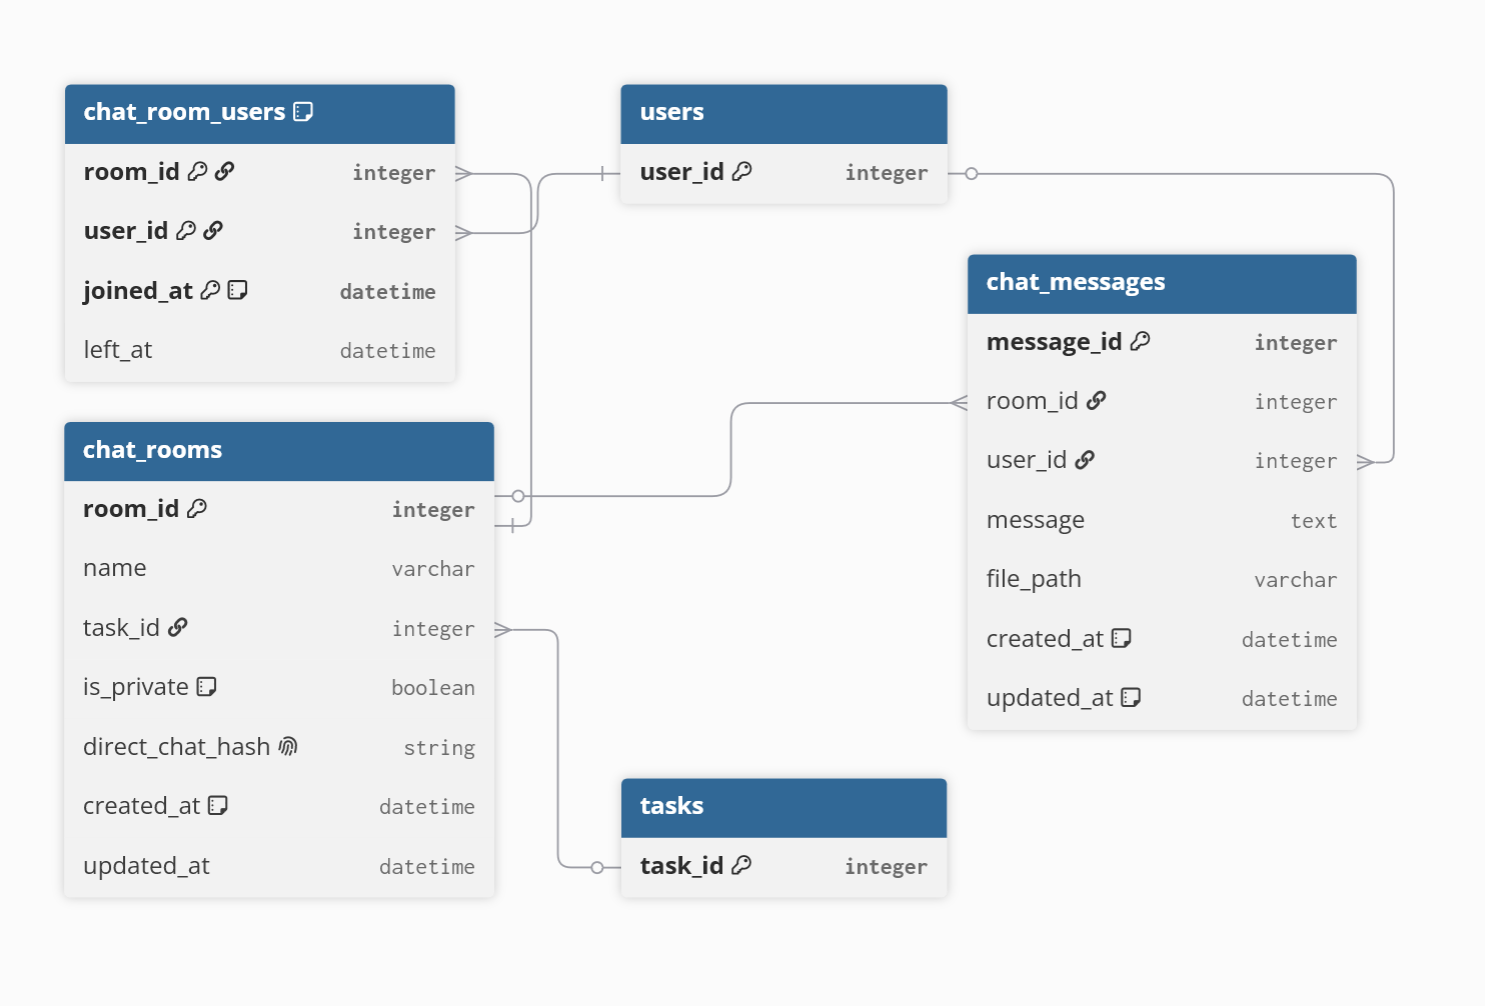
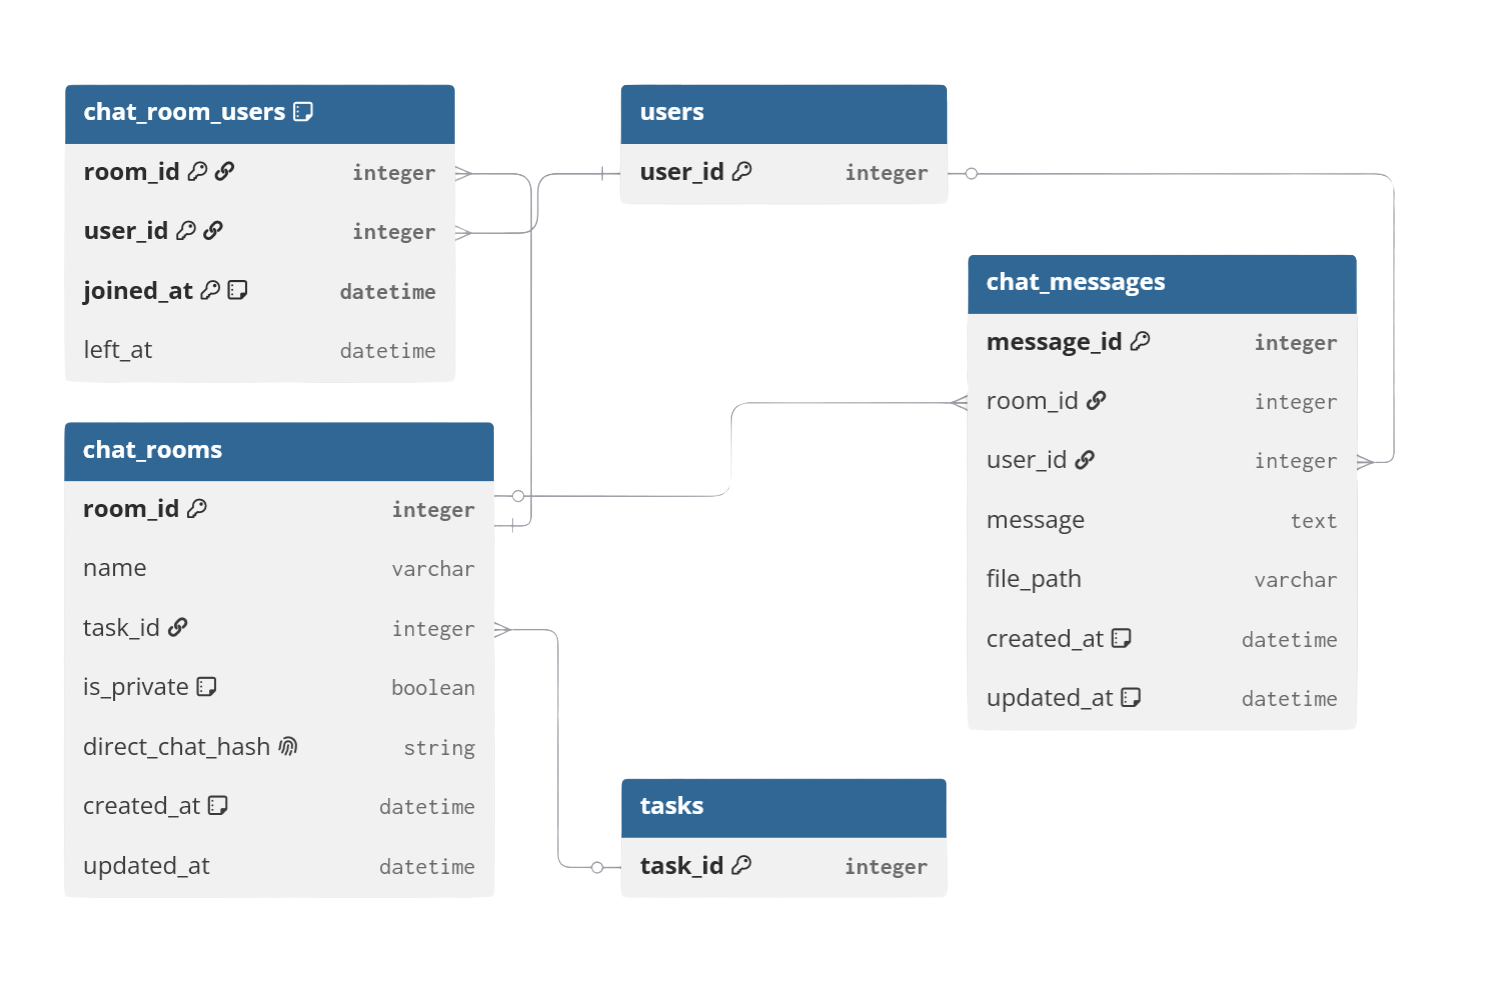
#60: taks thesis done

diff --git a/thesis/content/07_ImplementierungDerKernfunktionen.tex b/thesis/content/07_ImplementierungDerKernfunktionen.tex
@@ -13,28 +13,199 @@ Im Folgenden wird detailliert erläutert, wie zentrale Features, wie beispielswe
 \authorsection{Taskverwaltung}{Dražen Plavšić}
 \label{sec:taskverwaltung}
 
+Da EffSync als Task-Management-System konzipiert wurde, bildet das Task-Modul das zentrale Element der Anwendung. Die Zielsetzung des Systems ist es, sowohl Schülern als auch Lehrern die Verwaltung von Aufgaben zu erleichtern. Schüler erhalten die Möglichkeit, ihre Aufgaben eigenständig zu organisieren, während Lehrern ein strukturiertes Werkzeug zur Verfügung steht, um Aufgaben gezielt zuzuweisen und deren Bearbeitung zu überwachen.
+
+Das System wurde dabei bewusst über den schulischen Kontext hinaus konzipiert. Durch die Möglichkeit der beliebig tiefen Verschachtlung von Tasks und Subtasks lassen sich nicht nur einfache Aufgaben, sondern auch komplexe Projektstrukturen abbilden. Ein einzelner Task kann dabei ein übergeordnetes Projekt repräsentieren, dessen Teilaufgaben in weitere Unteraufgaben unterteilt werden. Dies macht das Task-Modul von EffSync grundsätzlich auch für den unternehmensinternen Einsatz geeignet, da sich ganze Projekte oder Teilprojekte vollständig innerhalb des Systems strukturieren lassen.
+
+\subsection{Datenbankschema und grundlegender Aufbau einer Aufgabe}
+Bevor komplexe Mechanismen wie Aufgabenhierarchien und automatische Evaluierungsregeln betrachtet werden, ist es wichtig, den grundlegenden strukturellen Aufbau eines \textit{Tasks} zu verstehen. Die Task-Entität bildet das zentrale Kernstück der Applikation und ist in der Datenbank so modelliert, dass sie alle Metadaten für das Projektmanagement effizient speichern kann.
+
+\begin{figure}[H]
+  \centering
+  \includegraphics[width=0.8\textwidth]{content/bilder/task_db_schema.png}
+  \caption{Auszug des Datenbankschemas zur Verwaltung der Tasks}
+  \label{fig:task_schema}
+\end{figure}
+
+Die Tabelle (sihe Abbildung \ref{fig:task_schema}) lässt sich logisch in drei wesentliche Datenbereiche unterteilen:
+\begin{itemize}
+    \item \textbf{Basisdaten \& Fortschritt:} Felder wie \texttt{title}, \texttt{description}, \texttt{status} und \texttt{progress} bilden die Kerninformationen für die Benutzeroberfläche. Der Status und der Fortschritt (0 bis 100\,\%) sind logisch aneinander gekoppelt.
+    \item \textbf{Verantwortlichkeiten \& Organisation:} Über \texttt{created\_by} und \texttt{assigned\_to} wird auf Datenbankebene sichergestellt, dass jede Aufgabe einem Ersteller und optional einem Bearbeiter zugewiesen ist. Das Feld \texttt{priority\_id} referenziert eine separate Tabelle, um Tasks nach Dringlichkeit (z.\,B. Niedrig, Hoch) zu kategorisieren, während \texttt{deadline} die zeitliche Frist setzt.
+    \item \textbf{Architektonische Steuerungsfelder:} Die Spalte \texttt{parent\_task\_id} dient als Selbstreferenz (\textit{Self-Join}) auf die gleiche Tabelle, um unendlich tiefe Task-Bäume zu ermöglichen. Die Felder \texttt{completion\_rule} (vom Datentyp JSONB) und \texttt{auto\_complete} sind speziell für die eigens entwickelte Rule-Engine reserviert.
+\end{itemize}
+
+Dieser Aufbau bildet das Fundament für die gesamte Geschäftslogik der Taskverwaltung, welche in den folgenden Abschnitten detailliert erläutert wird.
+
+\subsection{Hierarchie der Tasks}
+Jeder Task kann über das Feld \texttt{parent\_task\_id} einem übergeordneten Task zugewiesen werden. Dadurch entsteht eine hierarchische Baumstruktur (\textit{Tree Structure})\cite{celko2004trees}, bei der ein Haupt-Task theoretisch unendlich viele Subtasks und deren Unteraufgaben (\textit{Descendants}) besitzen kann.
+
+Diese strukturelle Flexibilität bringt jedoch eine technische Herausforderung mit sich: die Vermeidung von \textit{Circular References}. Wenn Task A der übergeordnete Task von Task B ist, darf Task B nicht nachträglich als übergeordneter Task von Task A definiert werden. Ebenso darf ein Task nicht sein eigener Parent werden, da dies unweigerlich zu Endlosschleifen beim Auslesen der Daten führen würde.
+
+Um die Datenintegrität aufrechtzuerhalten, implementiert das Backend bei jeder Zuweisung oder Änderung eines Parent-Tasks eine Sicherheitsprüfung. Wie in Listing \ref{lst:circular_reference} dargestellt, traversiert die Methode \texttt{validateNoCircularReference} den Baum iterativ von unten nach oben. Dabei speichert sie alle bereits besuchten Task-IDs in einem \texttt{Set}. Sobald die Methode auf einen Task stößt, dessen ID bereits im Set existiert, greift der Schutzmechanismus und das System bricht den Vorgang mit einer \texttt{BadRequestException} (HTTP Status 400) ab.
+
+\begin{listing}[H]
+\begin{minted}{typescript}
+// Backend: TasksService
+private async validateNoCircularReference(taskId: number, parentTaskId: number): Promise<void> {
+  let currentTask = await this.prisma.tasks.findUnique({
+    where: { task_id: parentTaskId },
+    select: { task_id: true, parent_task_id: true },
+  });
+  // Set initialisieren, um bereits besuchte Knoten zu speichern
+  const visited = new Set<number>([taskId]);
+  while (currentTask) {
+    if (visited.has(currentTask.task_id)) {
+      throw new BadRequestException(
+        'Circular reference detected: Task cannot be ancestor of itself'
+      );
+    }
+    visited.add(currentTask.task_id);
+    if (!currentTask.parent_task_id) break;
+    // Nächsten Knoten in der Hierarchie abfragen
+    currentTask = await this.prisma.tasks.findUnique({
+      where: { task_id: currentTask.parent_task_id },
+      select: { task_id: true, parent_task_id: true },
+    });
+  }
+}
+\end{minted}
+\caption{Schutz vor Zirkelbezügen durch Traversierung der Baumstruktur}
+\label{lst:circular_reference}
+\end{listing}
+
+Beim Abrufen der hierarchischen Daten aus der Datenbank nutzt das Backend zwei optimierte Strategien, um verschachtelte Strukturen effizient an das Vue.js-Frontend zu liefern. Für den allgemeinen Listenaufruf sammelt die Hilfsfunktion \texttt{collectDescendants} alle Nachkommen eines Tasks rekursiv über mehrere Datenbankabfragen ein und führt die Ergebnisse im Speicher zusammen. Für die vollständige Baumansicht hingegen stellt der Endpunkt \texttt{GET /tasks/:id/tree} eine optimiertere Methode bereit: \texttt{findeOneWithSubtasks} lädt dabei alle relevanten Tasks in \textbf{einer einzigen} Datenbankabfrage und übergibt sie an die Methode \texttt{buildTree}, welche das Ergebnis serverseitig als tief verschachteltes JSON-Objekt rekonstruiert (siehe Listing \ref{lst:build_tree}).
+
+\begin{listing}[H]
+\begin{minted}{typescript}
+// Backend: TasksService
+async findeOneWithSubtasks(taskId: number, includeRelations = true) {
+const rootTask = await this.prisma.tasks.findUnique({
+where: { task_id: taskId },
+});
+// Alle Tasks des Erstellers in einer einzigen Abfrage laden
+const allTasks = await this.prisma.tasks.findMany({
+where: { created_by: rootTask.created_by },
+include: includeRelations ? this.basicInclude() : undefined,
+});
+// Serverseitige Rekonstruktion als verschachtelter JSON-Baum
+return this.buildTree(allTasks, taskId);
+}
+private buildTree(allTasks: any[], taskId: number) {
+const taskMap = new Map();
+allTasks.forEach(task =>
+taskMap.set(task.task_id, { ...task, subtasks: [] })
+);
+taskMap.forEach(task => {
+const parentTaskId = taskMap.get(task.parent_task_id);
+parentTaskId?.subtasks.push(taskMap.get(task.task_id));
+});
+return taskMap.get(taskId); // Gibt das vollständige JSON-Objekt zurück
+}
+\end{minted}
+\caption{Serverseitige Rekonstruktion des Task-Baums als verschachteltes JSON-Objekt}
+\label{lst:build_tree}
+\end{listing}
+
+Dieses verschachtelte JSON-Objekt wird anschließend über die \gls{REST-API} direkt an das Vue.js-Frontend übertragen, welches die Struktur ohne weitere Transformationen für die Darstellung der Baumansicht verwenden kann.
+
+\subsection{Rule-Engine und automatische Task-Validierung}
+\textit{EffSync} besitzt auch die Fähigkeit, übergeordnete Tasks automatisch abzuschließen (\textit{Auto-Completion}), sobald bestimmte, vom Nutzer definierte Kriterien der zugehörigen Subtasks erfüllt sind. Um dies zu realisieren, wird eine eigene \textit{Rule-Engine} implementiert, die in einen visuellen Frontend-Builder und einen serverseitigen Evaluator unterteilt ist.
+
+Im Vue.js-Frontend ermöglicht die Komponente \texttt{RuleBuilder} dem Ersteller eines Tasks, logische Bedingungen zu definieren. Dabei können einzelne Subtasks beliebig tief mit logischen Operatoren (\texttt{UND}, \texttt{ODER}, \texttt{XOR}, \texttt{NICHT}) verknüpft werden. Das Frontend übersetzt diese visuelle Darstellung in einen 
+\gls{AST} im JSON-Format und übermittelt diesen an das Backend., wo er als \texttt{JSONB}\cite{postgresql_jsonb} abgespeichert wird.
+
+Sobald der Status eines Subtasks geändert wird (beispielsweise auf \texttt{COMPLETED}), löst das Backend einen Event-Trigger aus. Die serverseitige Engine lädt daraufhin den JSONB-Regelbaum des übergeordneten Tasks und wertet diesen aus. Da der Baum beliebig tief verschachtelt sein kann, erfolgt die Auswertung über einen rekursiven Algorithmus.
+
+Wie in Listing~\ref{lst:rule_evaluator} gezeigt, traversiert die Funktion \texttt{evaluateCondition} den JSON-Baum. Handelt es sich bei dem aktuellen Knoten (\textit{Node}) um ein Endblatt (\textit{Leaf}), wird geprüft, ob der referenzierte Task abgeschlossen ist. Handelt es sich hingegen um einen Operator, ruft sich die Funktion für alle angehängten Bedingungen (\textit{Operands}) selbst auf und verknüpft die booleschen Ergebnisse anschließend anhand des jeweiligen logischen Operators.
+
+\begin{listing}[H]
+\begin{minted}{typescript}
+// Backend: task.evaluator.completion.ts
+export function evaluateCondition(
+    node: ConditionNode,
+    completedTaskIds: Set<string>,
+): boolean {
+    // Abbruchbedingung der Rekursion: Blattknoten (konkreter Task)
+    if (node.type === 'leaf') {
+        return completedTaskIds.has(String(node.task_id));
+    }
+    // Rekursiver Aufruf für alle Kind-Knoten
+    const results = node.operands.map(operand =>
+        evaluateCondition(operand, completedTaskIds),
+    );
+    // Auswertung anhand des logischen Operators
+    switch (node.operator) {
+        case 'AND': return results.every(r => r === true);
+        case 'OR':  return results.some(r => r === true);
+        case 'XOR': return results.filter(r => r === true).length === 1;
+        case 'NOT': return !results[0];
+    }
+}
+\end{minted}
+\caption{Rekursive Auswertung des JSONB-Baums zur Task-Validierung}
+\label{lst:rule_evaluator}
+\end{listing}
+
+Ergibt die Evaluierung des gesamten Baums den Wert \texttt{true}, setzt die Engine den Status des Parent-Tasks automatisch auf \texttt{COMPLETED}. Gleichzeitig wird über das WebSocket-Gateway ein Echtzeit-Event an das Frontend gesendet, um die Benutzeroberfläche aller beteiligten Nutzer ohne Verzögerung zu aktualisieren.
+
+\subsection{Benutzerinteraktion, Usability und Sicherheit}
+Neben einer performanten Datenverarbeitung im Hintergrund liegt ein wesentlicher Fokus der Taskverwaltung auf der Benutzerfreundlichkeit (\textit{Usability}) und dem Schutz vor Bedienfehlern im Vue.js-Frontend. 
+
+Um dem Nutzer die Verwaltung einer Vielzahl von Aufgaben zu erleichtern, wird eine dynamische Filter- und Suchfunktion (\texttt{useTaskFilters}) implementiert. Diese ermöglicht es, die Aufgabenliste \textit{Client-seitig}, also ohne erneute Datenbankabfrage, in Echtzeit nach Status, Priorität oder Freitext zu filtern und zu sortieren. Die Priorisierung der Aufgaben ist dabei in vier Stufen unterteilt (Niedrig, Mittel, Hoch, Dringend), was eine effiziente Arbeitsorganisation unterstützt.
+
+Besonderes Augenmerk wird auf die Datenintegrität und die Vermeidung von ungewolltem Datenverlust gelegt. Das Löschen von Tasks ist daher mit mehrstufigen Sicherheitsmechanismen versehen. Versucht ein Nutzer, einen Task zu löschen, der noch aktive Subtasks enthält, lehnt das Backend die Anfrage direkt ab. Dieses Verhalten entspricht dem Prinzip der referentiellen Integrität, bei dem abhängige Kindeinträge das Löschen eines Elterndatensatzes verhindern\cite{postgresql_constraints}. Das System verlangt in diesem Fall zwingend, dass die untergeordneten Aufgaben (\textit{Dependencies}) zuerst gelöscht oder einem anderen Parent-Task zugewiesen werden.
+
+Um zudem versehentliche Löschungen von wichtigen Hauptaufgaben durch simple Fehleingaben (z.\,B.\ durch einen unachtsamen Klick) zu verhindern\cite{uxpsychology_destructive}\cite{nielsen_heuristics}, wurde eine zusätzliche Hürde im Frontend etabliert.
+
+\begin{figure}[H]
+  \centering
+  \includegraphics[width=0.4\textwidth]{content/bilder/task_delete_dilog.png}
+  \caption{Bestätigungsfenster beim Löschen von Task}
+  \label{fig:task_delete}
+\end{figure}
+
+Wie in der Abbildung \ref{fig:task_delete} ersichtlich, muss der Nutzer bei kritischen Löschvorgängen den exakten Namen des Tasks in ein Dialogfenster abtippen. Erst wenn die Eingabe zeichengenau mit dem Task-Titel übereinstimmt, wird der Lösch-Button freigeschaltet.
+
+Darüber hinaus existieren strikte Prüfungen beim Ändern des Task-Status. Ein Task kann nicht in den Status \texttt{COMPLETED} (Erledigt) übergehen, wenn der verknüpfte Arbeitsfortschritt (\textit{Progress}) noch nicht bei 100\,\% liegt. Auch hier arbeiten Frontend und Backend Hand in Hand: Das UI blockiert die Checkbox visuell, während das Backend bei einem API-Aufruf die Validierung der Werte erzwingt, um inkonsistente Zustände in der Datenbank zu verhindern.
+
+\subsection{Task-Templates zur Effizienzsteigerung}
+Da sich viele Arbeitsabläufe, wie beispielsweise Assignments aus Schulfächern (z.\,B.\ POS oder DB), Hausaufgaben für Schüler oder klassische Arbeitspakete in einem Softwareprojekt (z.\,B.\ das Implementieren von Unit-Tests), in ihrer Form und Struktur ähneln und regelmäßig wiederholen, ermöglicht \textit{EffSync} das Abspeichern von Tasks als Vorlage (\textit{Template}). 
+
+Die Verwendung von Vorlagen zur Wiederverwendung wiederkehrender Aufgabenstrukturen ist eine etablierte Praxis in modernen Projektmanagement-Werkzeugen \cite{nielsen_heuristics} und reduziert gemäß dem UX-Prinzip der Effizienz redundante Dateneingaben für erfahrene Nutzer.
+
+Möchte der Nutzer nun einen neuen Arbeitsauftrag erstellen, kann er direkt auf ein gespeichertes Template zurückgreifen. Das Frontend lädt die entsprechenden Parameter aus dem Backend und füllt die Eingabemasken der Benutzeroberfläche automatisch aus. Der Nutzer muss anschließend lediglich aufgabenspezifische, variable Details, wie etwa eine neue Deadline oder eine abweichende Zuweisung (\texttt{assigned\_to}), anpassen, bevor der finale Task generiert wird.
+
 \authorsection{Live-Chat}{Dražen Plavšić}
 \label{sec:live_chat}
 
 Im akademischen Umfeld der HTL, aber auch in der modernen Softwareindustrie, zeigt sich bei der Projektarbeit häufig ein wiederkehrendes Problem: Etablierte Task-Management-Lösungen bieten meist keine native, integrierte Echtzeitkommunikation\cite{trello_powerup_boardchat}\cite{atlassian_jira_11_3_documentation}\cite{atlassian_trello_guide}\cite{atlassian_trello_tour}. Dies zwingt Teams dazu, für Absprachen auf externe Kommunikationsplattformen wie Discord, Slack, WhatsApp oder Microsoft Teams auszuweichen. Dieser ständige Plattformwechsel (\textit{Context Switching}) führt zu einem fragmentierten Informationsfluss, bei dem Projektkontext und Aufgabenbezug schnell verloren gehen. 
 
-Um dieses Problem zu lösen, wurde in \textit{EffSync} ein nativer Live-Chat implementiert. Diese nahtlose Verschmelzung von Aufgabenverwaltung und Echtzeitkommunikation stellt die \textit{Unique Selling Proposition} (USP) der Applikation dar. 
+Um dieses Problem zu lösen, wirdin \textit{EffSync} ein nativer Live-Chat implementiert. Diese nahtlose Verschmelzung von Aufgabenverwaltung und Echtzeitkommunikation stellt die \textit{Unique Selling Proposition} (USP) der Applikation dar. 
 
 \subsection{Technologische Umsetzung mittels WebSockets}
-Da klassische REST-Schnittstellen auf dem Request-Response-Prinzip basieren, eignen sie sich nicht für Echtzeitanwendungen, da sie keine serverseitige Push-Kommunikation unterstützen~\cite{websocket_restapi_hybrid}. Ein ständiges Abfragen des Servers (\textit{HTTP-Polling}) nach neuen Nachrichten würde zudem unnötige Netzwerklast erzeugen, da jede HTTP-Anfrage einen erheblichen Protokoll-Overhead mit sich bringt~\cite{diva_polling_ws_2017}. Daher wird die Chat-Funktion vollständig über \textit{WebSockets} realisiert. Im Backend kommen hierbei NestJS-Gateways zum Einsatz, welche eine dauerhafte, bidirektionale Verbindung zum Vue-Frontend aufrechterhalten. Sendet ein Nutzer eine Nachricht, wird diese vom Server validiert und in Echtzeit per Push-Verfahren an alle relevanten Clients im jeweiligen Chatraum (\textit{Room}) verteilt (siehe Abbildung~\ref{fig:datenfluss_websocket}).
-\todo{eventuell die grafik selber in ilustrator machen da uberschneiden linien nicht optimal sind!}
-\begin{figure}[h]
+Da klassische REST-Schnittstellen auf dem Request-Response-Prinzip basieren, eignen sie sich nicht für Echtzeitanwendungen, da sie keine serverseitige Push-Kommunikation unterstützen~\cite{websocket_restapi_hybrid}. Ein ständiges Abfragen des Servers (\textit{HTTP-Polling}) nach neuen Nachrichten würde zudem unnötige Netzwerklast erzeugen, da jede HTTP-Anfrage einen erheblichen Protokoll-Overhead mit sich bringt~\cite{diva_polling_ws_2017}. Daher wird die Chat-Funktion vollständig über \textit{WebSockets} realisiert. Im Backend kommen hierbei NestJS-Gateways zum Einsatz, welche eine dauerhafte, bidirektionale Verbindung zum Vue-Frontend aufrechterhalten. Sendet ein Nutzer eine Nachricht, wird diese vom Server validiert und in Echtzeit per Push-Verfahren an alle relevanten Clients im jeweiligen Chatraum (\textit{Room}) verteilt (siehe Abbildung \ref{fig:datenfluss_websocket}).
+\begin{figure}[H]
   \centering
-  \includegraphics[width=0.8\textwidth]{content/bilder/realtime_chat_complex.png}
+  \includegraphics[width=0.6\textwidth]{content/bilder/realtime_chat_simpler_no_notes.png}
   \caption{Echtzeit-Datenfluss via WebSockets.}
-  \label{fig:datefluss_websocket}
+  \label{fig:datenfluss_websocket}
 \end{figure}
 
 \subsection{Unterscheidung der Chat-Typen und Vermeidung von Duplikaten}
 In \textit{EffSync} wird das Chat-System prinzipiell in zwei Raumtypen (\textit{Rooms}) unterteilt: private 1-zu-1-Chats und projektbezogene Gruppenchats. Diese Unterscheidung ist nicht nur für die Darstellung in der Benutzeroberfläche, sondern vor allem für die Datenmodellierung und die Berechtigungslogik wichtig. 
 
-Bei der Initialisierung von privaten Chats greift serverseitig eine spezielle Validierungslogik, um die Erstellung redundanter Chaträume zu verhindern. Möchte Nutzer A einen Chat mit Nutzer B starten, prüft das Backend zunächst über eine Datenbankabfrage, ob bereits ein privater Raum existiert, in dem exakt diese beiden Nutzer Mitglied sind. Ist dies der Fall, wird die Erstellung blockiert und dem Client stattdessen die ID des bestehenden Raums zurückgegeben. Dies garantiert, dass die Konversation zwischen zwei Personen nicht fragmentiert wird, sondern die gesamte Historie stets in einem einzigen, fortlaufenden Chatverlauf gebündelt bleibt.
-\todo{noch erklaren wie die privaten chat room gemacht worden sind, tabllen aus erd eventuell einfugen}
+Wie im Datenbankschema (siehe Abbildung \ref{fig:chat_schema}) ersichtlich, wird der Raumtyp über das Flag \texttt{is\_private} in der Tabelle \texttt{chat\_rooms} gesteuert. Bei Gruppenchats kann zudem optional eine direkte Verknüpfung zur entsprechenden Aufgabe (\texttt{task\_id}) hergestellt werden.
+
+\begin{figure}[H]
+    \centering
+    \includegraphics[width=0.8\textwidth]{content/bilder/chat_db_schema.png}
+    \caption{Auszug des Datenbankschemas zur Verwaltung der Chaträume}
+    \label{fig:chat_schema}
+\end{figure}
+
+Bei der Initialisierung von privaten Chats greift serverseitig eine spezielle Validierungslogik, um die Erstellung redundanter Chaträume zu verhindern. Möchte Nutzer A einen Chat mit Nutzer B starten, muss sichergestellt werden, dass für diese Konstellation nicht bereits ein Raum existiert. Anstatt hierfür eine rechenintensive Datenbankabfrage über die Mitgliedertabelle durchzuführen, wird dies über das Feld \texttt{direct\_chat\_hash} in der Tabelle \texttt{chat\_rooms} (siehe Abbildung \ref{fig:chat_schema}) gelöst. 
+
+Aus den Identifikationsnummern der beiden Teilnehmer wird ein deterministischer String generiert (beispielsweise \texttt{user1\_user2}). Da dieses Feld in der Datenbank mit einem \texttt{UNIQUE}-Constraint versehen ist, wird die Erstellung eines Duplikats bereits auf Datenbankebene strikt abgelehnt. Schlägt der Erstellungsversuch aufgrund des Constraints fehl, wird die Erstellung blockiert und dem Client stattdessen die ID des bestehenden Raums zurückgegeben. Dies garantiert, dass die Konversation zwischen zwei Personen nicht fragmentiert wird, sondern die gesamte Historie stets in einem einzigen, fortlaufenden Chatverlauf bleibt.
 
 \subsection{Raumverwaltung und Berechtigungslogik}
 Während in einem privaten Chat beide Teilnehmer gleichgestellte Rechte besitzen, erfordern Gruppenchats eine hierarchische Rollenverteilung, um administrative Aufgaben abzubilden. Die Komplexität liegt hierbei in der sicheren Verwaltung der Zugriffsrechte (\textit{Authorization}). Ein exemplarisches Sicherheitsszenario ist das Entfernen von Mitgliedern aus einem Gruppenchat. 
@@ -51,13 +222,25 @@ async removeMember(roomId: number, requesterId: number, targetUserId: number) {
         // Wirft intern eine ForbiddenException, falls nicht.
         await this.chatRoomsService.assertIsCreator(roomId, requesterId);
     }
-    
     // Szenario A (User entfernt sich selbst) oder
     // Szenario B (Creator entfernt User) war erfolgreich:
     return this.chatRoomMembersRepository.delete({ roomId, userId: targetUserId });
+}
+async assertIsCreator(roomId: number, userId: number) {
+    // Raum anhand der roomId aus der Datenbank laden,
+    // nur das Feld created_by wird benötigt.
+    const room = await this.prisma.chat_rooms.findUnique({
+        where: { room_id: roomId },
+        select: { created_by: true },
+    });
+    // Raum existiert nicht → 404
+    if (!room) throw new NotFoundException('Room not found!');
+    // Prüft, ob der anfragende User der Ersteller des Raums ist.
+    // Falls nicht → 403 ForbiddenException
+    if (room.created_by !== userId)
+        throw new ForbiddenException('Only the room creator can do this!');
 }
 \end{minted}
 \caption{Berechtigungsprüfung beim Entfernen von Mitgliedern aus einem Gruppenchat}
 \label{lst:chat_permissions}
 \end{listing}
-\todo{wieter schreiben}
